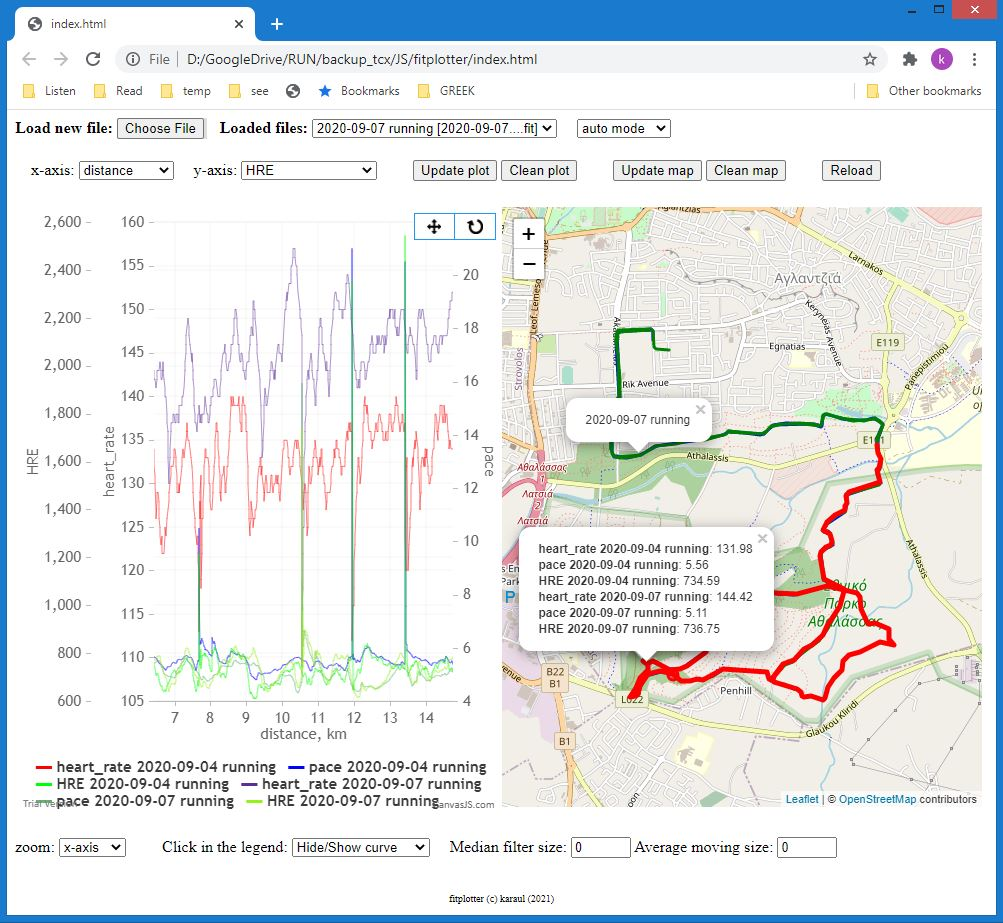
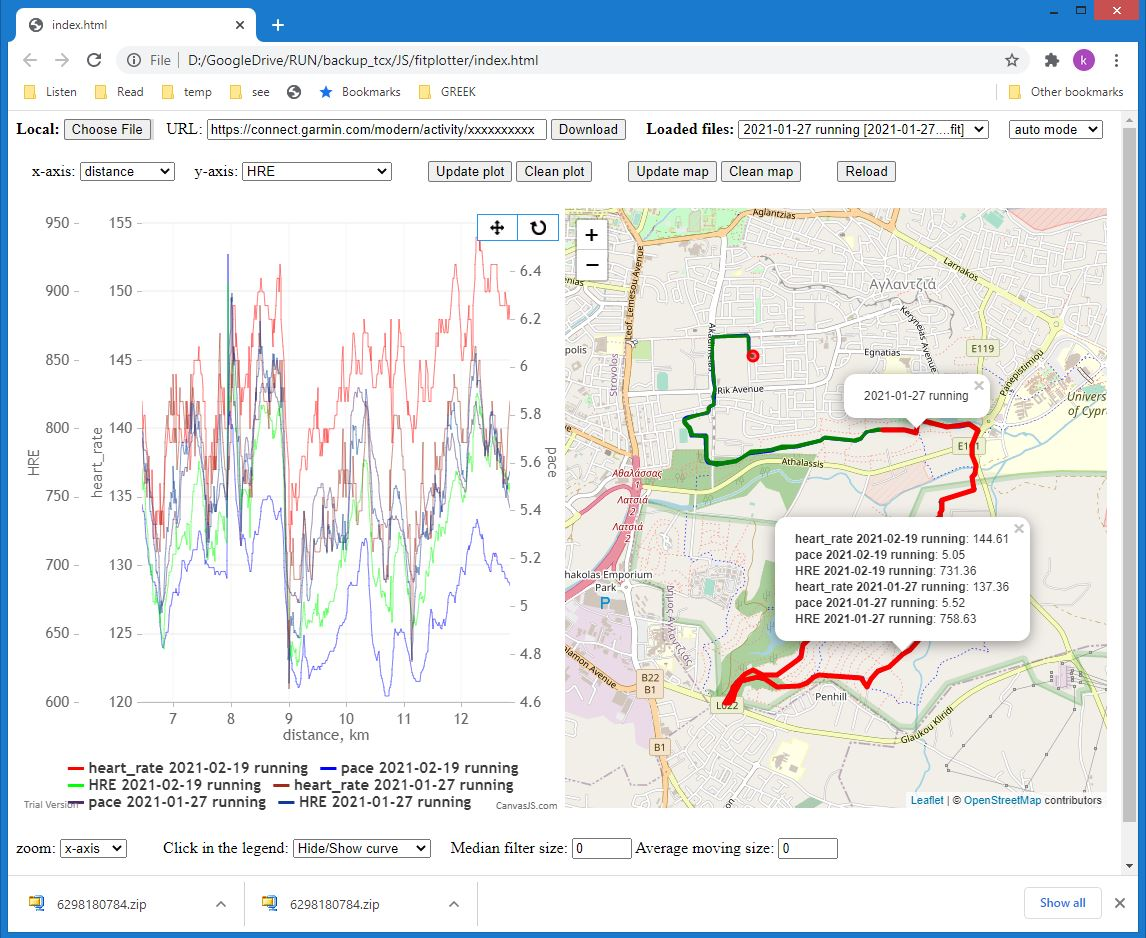
download from GC

diff --git a/src/main.js b/src/main.js
@@ -798,21 +798,31 @@ document.addEventListener('DOMContentLoaded', function () {
 		}, 300);
 	}
 
-	document.getElementById('updateMap').onclick = function (e) {
+	document.getElementById("updateMap").onclick = function (e) {
 		Object.values(fitdataObj).forEach(v=>{
 			prepareFitDataMap(v.data);
 		})
 	}
 
-	document.getElementById('files').onchange = function (e) {
-		const filename = document.getElementById('files').value;
+	document.getElementById("download").onclick = function (e) {
+		let // fit format;  working  2021-03-06
+		fileUrl = "https://connect.garmin.com/proxy/download-service/files/activity/";
+	    let id = document.getElementById('downloadURL').value.split("/").slice(-1);
+		let  downloadUrl = fileUrl + id;
+        console.log(downloadUrl);
+		// to download the current id 
+		window.location.href = downloadUrl;
+	}
+
+	document.getElementById("files").onchange = function (e) {
+		const filename = document.getElementById("files").value;
 		if(filename in fitdataObj) {
 			fitdata = fitdataObj[filename].data;
 			yOptions = fitdataObj[filename].yOptions;
 			activityLabel = new Date(fitdata.sessions[0]["start_time"]).toISOString().slice(0, 10) + " " + fitdata.sessions[0].sport;
-			document.getElementById('openmode').value = "manualmode";
+			document.getElementById("openmode").value = "manualmode";
 			cleanPlotFlag = false;
-			document.getElementById('xaxis').dispatchEvent(new Event('change'));
+			document.getElementById("xaxis").dispatchEvent(new Event("change"));
 		}
 		else { 
 			makeXMLHttpRequest(filename);

diff --git a/index.html b/index.html
@@ -70,9 +70,15 @@
 
 <body>
 		<span>
-			<label for="myfile"><b>Load new file:</b></label>
+			<label for="myfile"><b>Local:</b></label>
 			<input id="myfile" type="file" value="" accept=".fit, .tkl" 
 			style="padding: 0px; width:24mm; background: #ddd; size: 1"/>
+			&nbsp
+			<label for="downloadURL">URL:</label>
+			<input id="downloadURL" type="text" value="https://connect.garmin.com/modern/activity/xxxxxxxxxx" 
+				style="width:340px"/> 
+			<input id="download" type="button" value='Download'/> 
+			&nbsp
 			<label for="files"><b>&nbsp Loaded files:</b></label>
 			<select name="files" id="files" style="min-width: 120px"></select>
 		</span>

diff --git a/README.md b/README.md
@@ -2,11 +2,13 @@
 
 A simple one-page tool to plot parameters recorded in the `*.fit` file used by Garmin and Suunto.
 
-Starting from 2021-03-03, it also works with `*.tkl` format (watch models: GPSmaster, navrun-500, ultrasport, etc)
+Starting from 2021-03-03, it also works with `*.tkl` format (watch models: GPSmaster, navrun-500, ultrasport, etc).
 
-Version [online](https://karaul.github.io/fitplotter). If you have no own fit files at the moment, you can download them from [examples](https://github.com/karaul/fitplotter/blob/main/examples/)
+Version [online](https://karaul.github.io/fitplotter). If you have no own fit files at the moment, you can download them from [examples](https://github.com/karaul/fitplotter/blob/main/examples/).
 
-The wrapper for `fitplotter` is [fitalyser](https://github.com/karaul/fitalyser) - parallel project.
+From 2021-03-08 you can download `*.fit` file from your _Garmin Connect_ account, for how to do it read  __Usage__ section below.
+
+Check the wrapper for `fitplotter` is [fitalyser](https://github.com/karaul/fitalyser) - parallel project.
 
 ![Alt text](https://github.com/karaul/fitplotter/blob/main/screenshots/screenshot.JPG?raw=true)
 
@@ -43,7 +45,17 @@ Garmin device does  recording the measured paremeters into a binary `.fit` file 
 
 Press button "Choose file" and select a `*.fit` file to analyse. In the Garmin unit,  `*.fit` files are in the folder "activities", which can be seen when you connect Garmin  with PC via USB. Or you can download your fit files from Garmin Connect. Also, you can play with `*.fit` files located for the demonstration purpose in the folder [examples](https://github.com/karaul/fitplotter/blob/main/examples/)
 
-If everything works fine, after you open the `.fit` file, you will see a graph on the left and map on the right. Few screenshots are in the folder [screenshots](https://github.com/karaul/fitplotter/blob/main/screenshots/). Play with droplists: x-axis, y-axis, automode/manual add. Zoom area in the left graph and then see the averaged over the zoomed area on the right map. Click on the legend with different choice in the bottom droplist. 
+If everything works fine, after you open the `.fit` file, you will see a graph on the left and map on the right. Few screenshots are in the folder [screenshots](https://github.com/karaul/fitplotter/blob/main/screenshots/). Play with droplists: x-axis, y-axis, automode/manual add. Zoom area in the left graph and then see the averaged over the zoomed area on the right map. Click on the legend with different choice in the bottom droplist.
+
+### In order to download `*.fit` file from _Garmin Connect_ account
+
+- Login to _Garmin Connect_ (GC) account;
+- Navigate to the activity URL `https://connect.garmin.com/modern/activity/xxxxxxxxxx`;
+- The latest 10-digits number `xxxxxxxxx`in the _Garmin Connect_ URL is `acitvity ID`;
+- Type in the `fitplotter`'s URL field the noticed `activity ID`;
+- Click Download, wait a bit and save your zipped activity taken from _Garmin Connect_ into the local folder;
+- Unzip the activity in your local folder;
+- Click "Choose file" and load the activity as a local file into `fitplotter`
 
 Russians may also check [ЧАВО](https://github.com/karaul/fitplotter/blob/main/screenshots/FAQ_ru.md)
 

diff --git a/index.md b/index.md
@@ -70,9 +70,15 @@
 
 <body>
 		<span>
-			<label for="myfile"><b>Load new file:</b></label>
+			<label for="myfile"><b>Local:</b></label>
 			<input id="myfile" type="file" value="" accept=".fit, .tkl" 
 			style="padding: 0px; width:24mm; background: #ddd; size: 1"/>
+			&nbsp
+			<label for="downloadURL">URL:</label>
+			<input id="downloadURL" type="text" value="https://connect.garmin.com/modern/activity/xxxxxxxxxx" 
+				style="width:340px"/> 
+			<input id="download" type="button" value='Download'/> 
+			&nbsp
 			<label for="files"><b>&nbsp Loaded files:</b></label>
 			<select name="files" id="files" style="min-width: 120px"></select>
 		</span>

diff --git a/CHANGELOG.md b/CHANGELOG.md
@@ -2,6 +2,15 @@
 
 Changes of the `fitplotter` project are documented in this file
 
+## To do
+
+- οn-fly unzip of the downloaded file
+- immediate analysis of the downloaded file
+
+## 2021-03-07
+
+- It is implemented download of a single activity from Garmin Connect
+
 ## 2021-03-03
 
 - tkl-parser is added;
